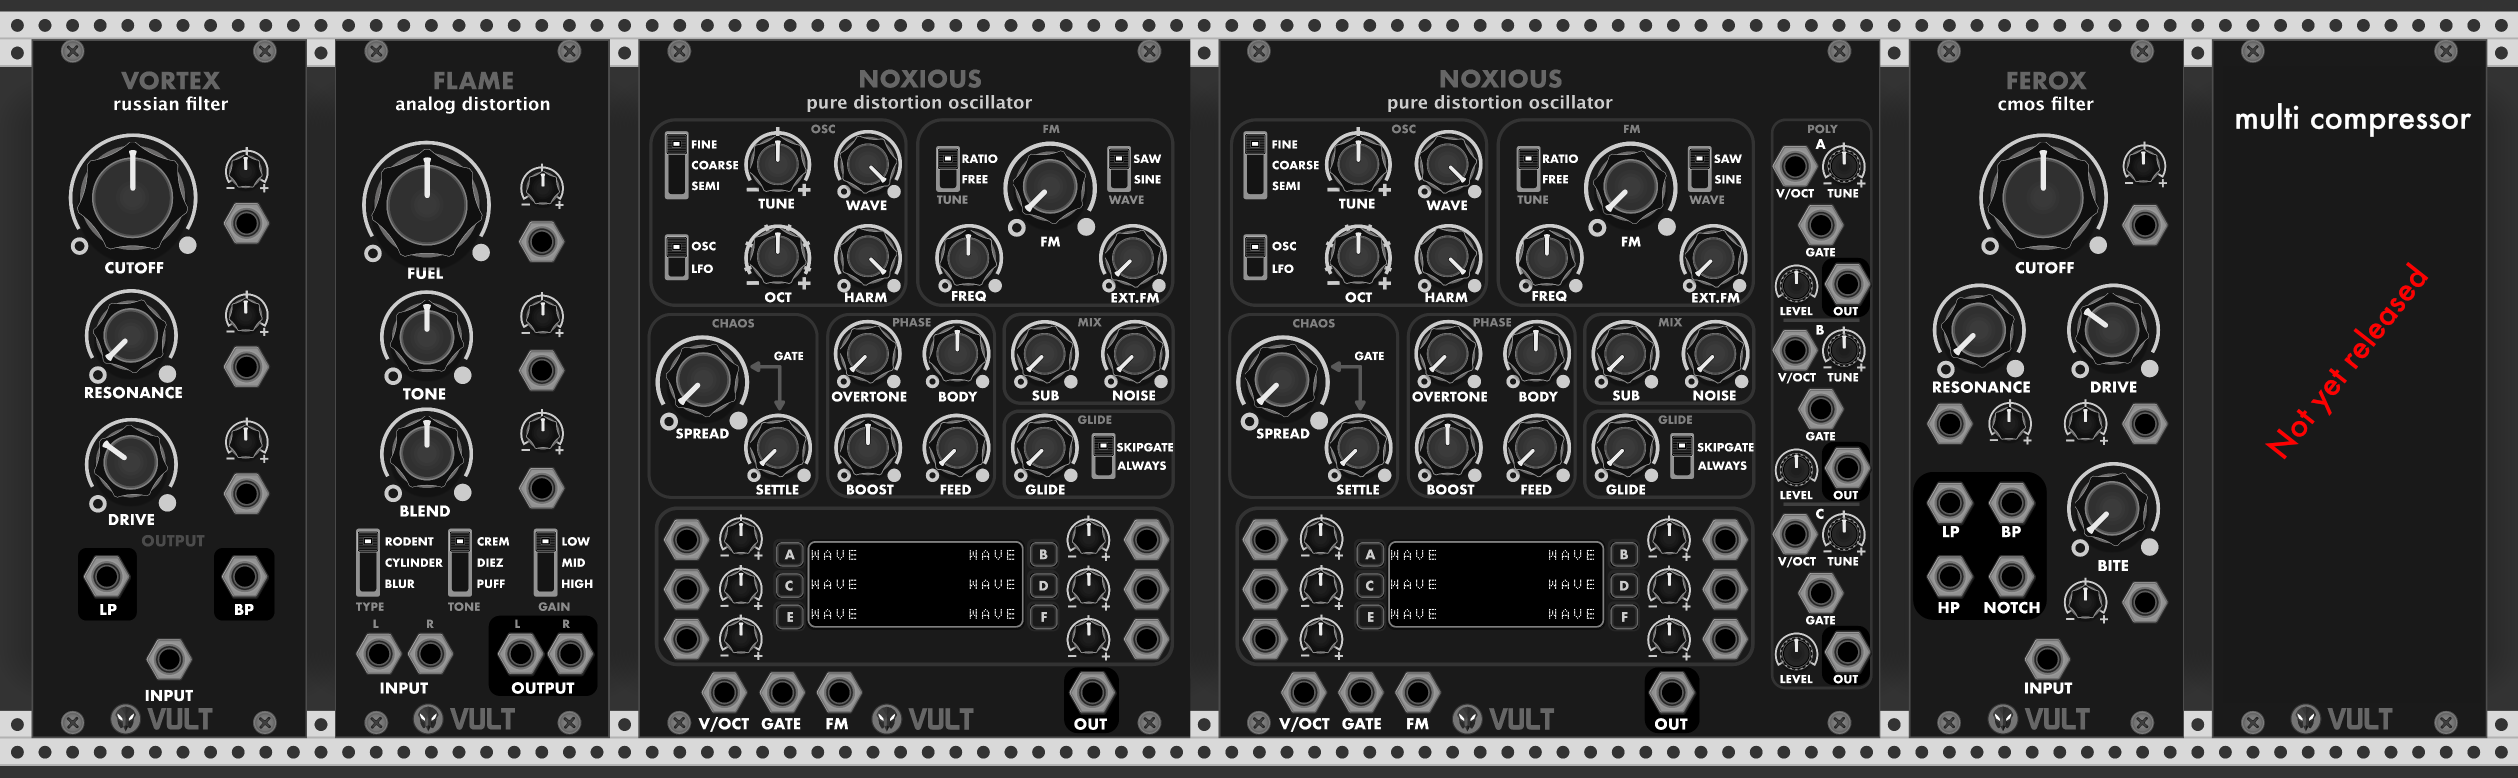
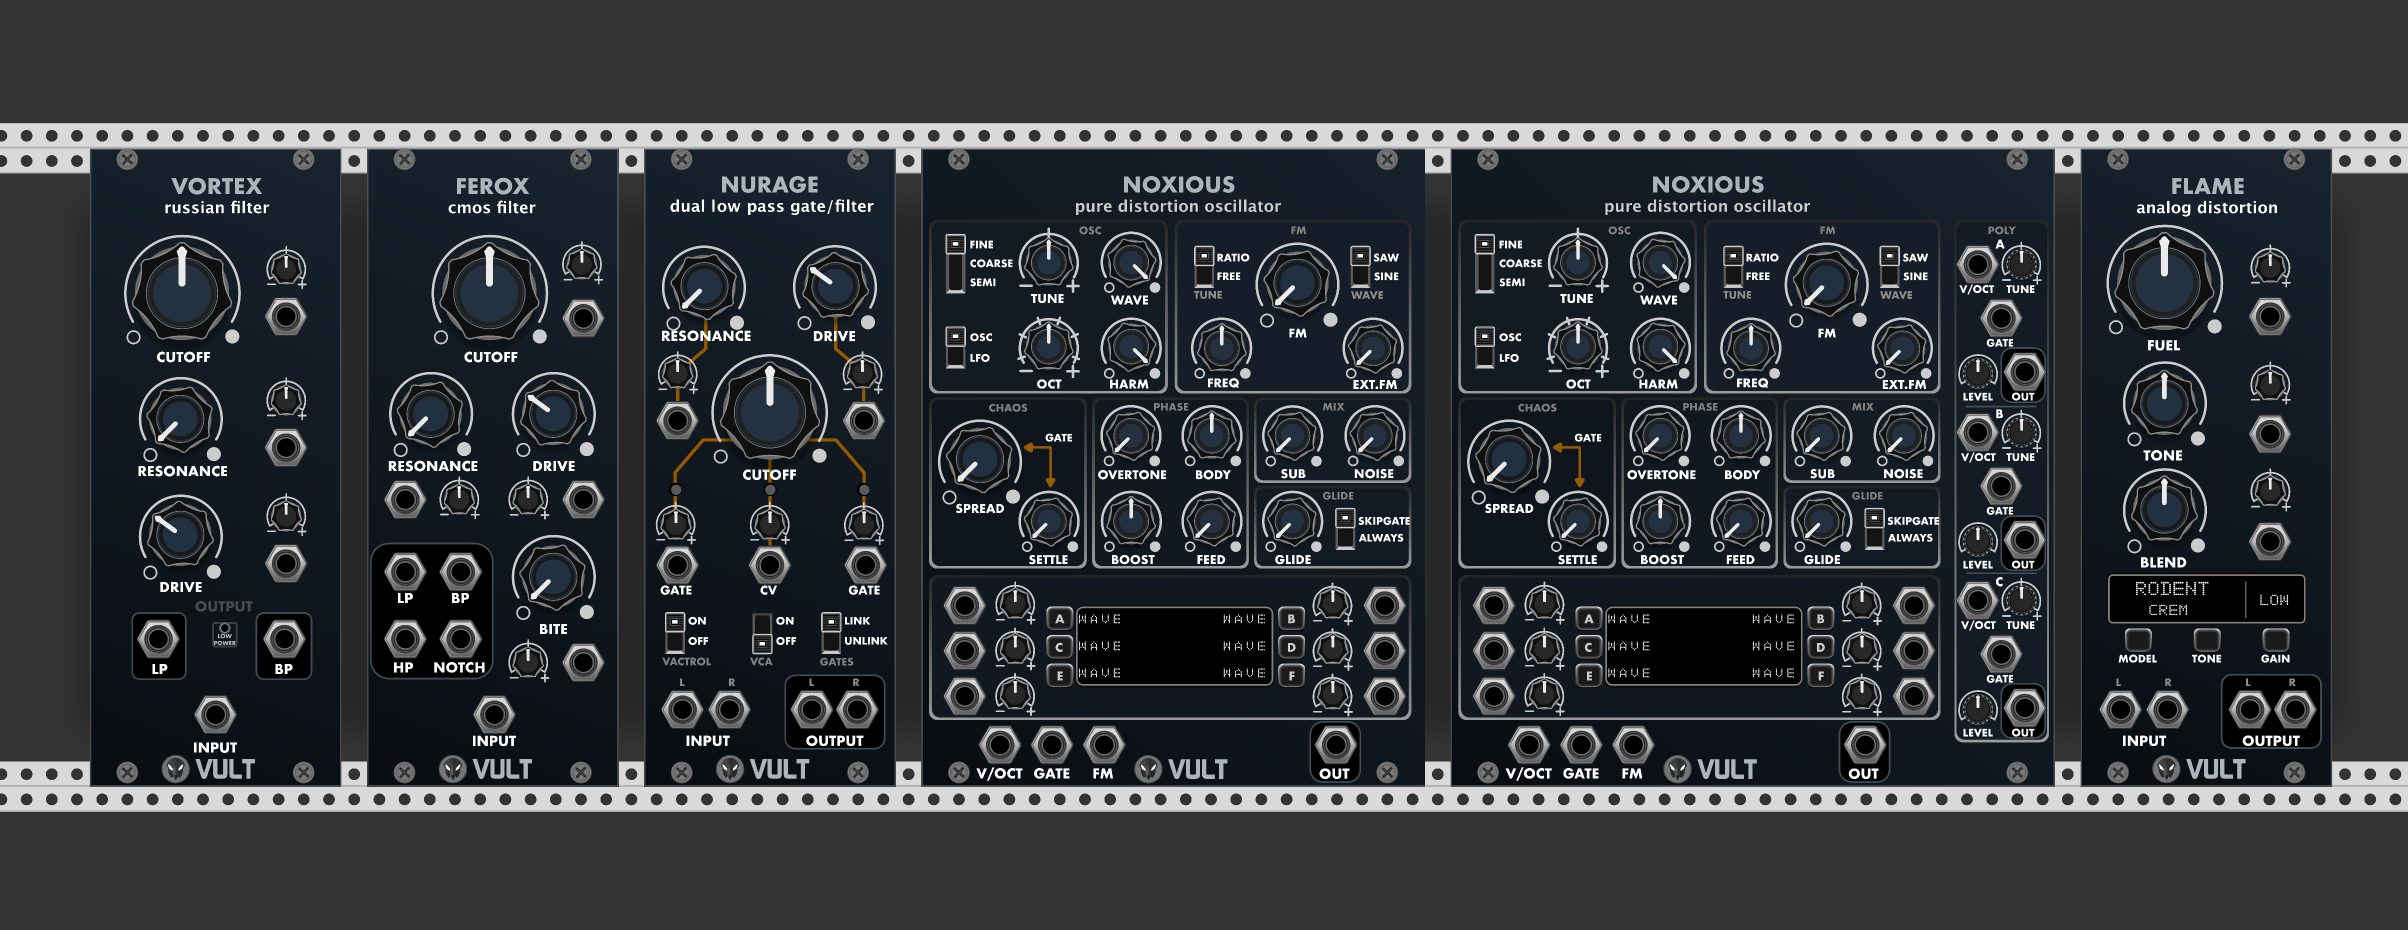
Updates the page including the new modules

diff --git a/themes/vultmodules/layouts/index.html b/themes/vultmodules/layouts/index.html
@@ -7,19 +7,25 @@
             <h1>Vult Modules for VCV Rack</h1>
          </center>
          <center>
-            <img src="images/VultFamily.png" alt="Modules" style="width:100%;margin-top:40px;margin-bottom:40px;"> </center>
+            <img src="images/VultFamily.png" alt="Modules" style="width:100%;margin-top:40px;margin-bottom:40px;">
+         </center>
 
          {{ partial "menu.html" . }}
 
          <p>
-            This is a set of modules that have been carefully designed to fit the Eurorack style of VCV Rack. The modules are coded in
+            This is a set of modules that have been carefully designed to fit the Eurorack style of VCV Rack. The
+            modules are coded in
             the Vult programming language.
          </p>
          <p>
-            The Vult modules are "Virtual Analog". The internals of the modules are modeled using electrical circuits and differential
-            equations, but some behaviors have been simplified when they are easier to do in code. These modules are not
-            emulations of an specific Eurorack module. In the case of the filters the modules try to capture the essence
-            and the sound of the analog versions, and at the same time provide very good performance. Some of the modules,
+            The Vult modules are "Virtual Analog". The internals of the modules are modeled using electrical circuits
+            and differential
+            equations, but some behaviors have been simplified when they are easier to do in code. These modules are
+            not
+            emulations of an specific Eurorack module. In the case of the filters the modules try to capture the
+            essence
+            and the sound of the analog versions, and at the same time provide very good performance. Some of the
+            modules,
             like Trummor 2, were inspired by existing hardware but have evolved into complete original designs.
          </p>
 
@@ -37,7 +43,8 @@
          <p>Following these rules helps me constrain the ideas for modules I have. But I may break them in the future.</p>
 
          <h2> Module Packages </h2>
-         <p>The modules are split into three packages: Premium, Compacts and Free. The Free package is a reduced version of
+         <p>The modules are split into three packages: Premium, Compacts and Free. The Free package is a reduced
+            version of
             the Premium. You can find more information in the following links:</p>
          <center>
             <a href="/premium/" class="btn btn-primary" role="button">VultModules</a>
@@ -49,15 +56,17 @@
          <h2> List of Modules </h2>
          <h4 id="filters">Filters</h4>
 
-         <center>
-            <img src="images/Filters.png" alt="Filters" style="width:100%;margin-top:40px;margin-bottom:40px;"> </center>
-
 
          <ul>
             <li>
-               <a href="https://modlfo.github.io/VultModules/freak/">Freak</a>: Manifold Filter (all Vult filters in one).</li>
+               <a href="https://modlfo.github.io/VultModules/freak/">Freak</a>: Manifold Filter (all Vult filters in
+               one).</li>
             <li>
                <a href="https://modlfo.github.io/VultModules/ferox/">Ferox</a>: CMOS Filter.</li>
+            <li>
+               <a href="https://modlfo.github.io/VultModules/vorg/">Vorg</a>: Low Pass Filter.</li>
+            <li>
+               <a href="https://modlfo.github.io/VultModules/nurage/">Nurage</a>: Dual Low Pass Gate/Filter.</li>
             <li>
                <a href="https://modlfo.github.io/VultModules/lateralus/">Lateralus</a>: Diode Ladder Filter.</li>
             <li>
@@ -67,7 +76,8 @@
             <li>
                <a href="https://modlfo.github.io/VultModules/stabile/">Stabile</a>: State Variable Filter.</li>
             <li>
-               <a href="https://modlfo.github.io/VultModules/unstabile/">Unstabile</a>: Circuit Bent State Variable Filter.</li>
+               <a href="https://modlfo.github.io/VultModules/unstabile/">Unstabile</a>: Circuit Bent State Variable
+               Filter.</li>
             <li>
                <a href="https://modlfo.github.io/VultModules/rescomb/">Rescomb</a>: Resonant Comb Filter.</li>
             <li>
@@ -75,50 +85,50 @@
             <li>
                <a href="https://modlfo.github.io/VultModules/tohe/">Tohe</a>: Tone Control.</li>
          </ul>
+         <h4 id="effects">Synthesizer</h4>
+         <ul>
+            <li>
+               <a href="https://modlfo.github.io/VultModules/incubus/">Incubus</a>: Nightmare Synthesizer.</li>
+
+         </ul>
+
          <h4 id="effects">Effects</h4>
-         <center>
-            <img src="images/Effects.png" alt="Effects" style="width:100%;margin-top:40px;margin-bottom:40px;"> </center>
 
          <ul>
             <li>
-               <a href="https://modlfo.github.io/VultModules/debriatus/">Debriatus</a>: Wave Destruction. Wave Folder, Bit Crusher, Distortion and Saturation.</li>
+               <a href="https://modlfo.github.io/VultModules/debriatus/">Debriatus</a>: Wave Destruction. Wave Folder,
+               Bit Crusher, Distortion and Saturation.</li>
             <li>
-               <a href="https://modlfo.github.io/VultModules/flame/">Flame</a>: Analog distortion based on guitar pedals.</li>
+               <a href="https://modlfo.github.io/VultModules/flame/">Flame</a>: Analog distortion based on guitar
+               pedals.</li>
             <li>
-               <a href="https://modlfo.github.io/VultModules/nopskate/">Nopskate</a>: Flip-Flop octaver based on guitar pedals.</li>
+               <a href="https://modlfo.github.io/VultModules/nopskate/">Nopskate</a>: Flip-Flop octaver based on guitar
+               pedals.</li>
 
          </ul>
-         <h4 id="envelopes-vca">Envelopes &amp; VCA</h4>
 
-         <center>
-            <img src="images/Envelopes.png" alt="Envelopes" style="width:100%;margin-top:40px;margin-bottom:40px;"> </center>
 
-         <ul>
-            <li>
-               <a href="https://modlfo.github.io/VultModules/spank/">Spank</a>: Drum Envelope.</li>
-            <li>
-               <a href="https://modlfo.github.io/VultModules/slap/">Slap</a>: Hitting Envelope.</li>
-            <li>
-               <a href="https://modlfo.github.io/VultModules/julste/">Julste</a>: Low Pass Gate. Buchla model.</li>
-         </ul>
          <h4 id="drums">Drums</h4>
 
-         <center>
-            <img src="images/Drums.png" alt="Drums" style="width:100%;margin-top:40px;margin-bottom:40px;"> </center>
 
          <ul>
+            <li>
+               <a href="https://modlfo.github.io/VultModules/knock/">Knock</a>: Bass Drum.</li>
+
             <li>
                <a href="https://modlfo.github.io/VultModules/trummor/">Trummor</a>: Drums Synthesizer.</li>
             <li>
                <a href="https://modlfo.github.io/VultModules/trummor2/">Trummor 2</a>: Drum (Percussion) Synthesizer.</li>
          </ul>
          <h4 id="oscillators">Oscillators</h4>
-         <center>
-            <img src="images/Oscillators.png" alt="Oscillators" style="width:100%;margin-top:40px;margin-bottom:40px;"> </center>
 
          <ul>
             <li>
                <a href="https://modlfo.github.io/VultModules/vessek/">Vessek</a>: Complex Analog Oscillator.</li>
+            <li>
+               <a href="https://modlfo.github.io/VultModules/basal/">Basal</a>: Smooth Oscillator.</li>
+            <li>
+               <a href="https://modlfo.github.io/VultModules/bleak/">Bleak</a>: Analog Oscillator.</li>
             <li>
                <a href="https://modlfo.github.io/VultModules/caudal/">Caudal</a>: Mechanical Chaos Source.</li>
             <li>
@@ -126,12 +136,14 @@
 
          </ul>
          <h4 id="utilities">Utilities</h4>
-         <center>
-            <img src="images/Utilities.png" alt="Utilities" style="width:100%;margin-top:40px;margin-bottom:40px;"> </center>
 
          <ul>
             <li>
                <a href="flux/">Flux</a>: Quad Voltage Processor</li>
+            <li>
+               <a href="https://modlfo.github.io/VultModules/spank/">Spank</a>: Drum Envelope.</li>
+            <li>
+               <a href="https://modlfo.github.io/VultModules/slap/">Slap</a>: Hitting Envelope.</li>
             <li>
                <a href="knobs/">Knobs</a>: Modulation mixer and macro control</li>
             <li>

diff --git a/themes/vultmodules/layouts/partials/menu.html b/themes/vultmodules/layouts/partials/menu.html
@@ -3,9 +3,11 @@
       <a class="nav-link" href="/">Home</a>
    </li>
    <li class="nav-item dropdown">
-      <a class="nav-link dropdown-toggle" data-toggle="dropdown" href="#" role="button" aria-haspopup="true" aria-expanded="false">Filters</a>
+      <a class="nav-link dropdown-toggle" data-toggle="dropdown" href="#" role="button" aria-haspopup="true"
+         aria-expanded="false">Filters</a>
       <div class="dropdown-menu">
          <a class="dropdown-item" href="/freak">Freak</a>
+         <a class="dropdown-item" href="/nurage">Nurage</a>
          <a class="dropdown-item" href="/ferox">Ferox</a>
          <a class="dropdown-item" href="/vortex">Vortex</a>
          <a class="dropdown-item" href="/tangents">Tangents</a>
@@ -18,7 +20,8 @@
       </div>
    </li>
    <li class="nav-item dropdown">
-      <a class="nav-link dropdown-toggle" data-toggle="dropdown" href="#" role="button" aria-haspopup="true" aria-expanded="false">Effects</a>
+      <a class="nav-link dropdown-toggle" data-toggle="dropdown" href="#" role="button" aria-haspopup="true"
+         aria-expanded="false">Effects</a>
       <div class="dropdown-menu">
          <a class="dropdown-item" href="/debriatus">Debriatus</a>
          <a class="dropdown-item" href="/flame">Flame</a>
@@ -26,32 +29,39 @@
       </div>
    </li>
    <li class="nav-item dropdown">
-      <a class="nav-link dropdown-toggle" data-toggle="dropdown" href="#" role="button" aria-haspopup="true" aria-expanded="false">Envelopes</a>
+      <a class="nav-link dropdown-toggle" data-toggle="dropdown" href="#" role="button" aria-haspopup="true"
+         aria-expanded="false">Synthesizers</a>
       <div class="dropdown-menu">
-         <a class="dropdown-item" href="/spank">Spank</a>
-         <a class="dropdown-item" href="/slap">Slap</a>
-         <a class="dropdown-item" href="/julste">Julste</a>
+         <a class="dropdown-item" href="/incubus">Incubus</a>
       </div>
    </li>
    <li class="nav-item dropdown">
-      <a class="nav-link dropdown-toggle" data-toggle="dropdown" href="#" role="button" aria-haspopup="true" aria-expanded="false">Drums</a>
+      <a class="nav-link dropdown-toggle" data-toggle="dropdown" href="#" role="button" aria-haspopup="true"
+         aria-expanded="false">Drums</a>
       <div class="dropdown-menu">
+         <a class="dropdown-item" href="/knock">Knock</a>
          <a class="dropdown-item" href="/trummor">Trummor</a>
          <a class="dropdown-item" href="/trummor2">Trummor 2</a>
       </div>
    </li>
    <li class="nav-item dropdown">
-      <a class="nav-link dropdown-toggle" data-toggle="dropdown" href="#" role="button" aria-haspopup="true" aria-expanded="false">Oscillators</a>
+      <a class="nav-link dropdown-toggle" data-toggle="dropdown" href="#" role="button" aria-haspopup="true"
+         aria-expanded="false">Oscillators</a>
       <div class="dropdown-menu">
          <a class="dropdown-item" href="/vessek">Vessek</a>
          <a class="dropdown-item" href="/caudal">Caudal</a>
+         <a class="dropdown-item" href="/basal">Basal</a>
+         <a class="dropdown-item" href="/bleak">Bleak</a>
          <a class="dropdown-item" href="/noxious">Noxious</a>
       </div>
    </li>
    <li class="nav-item dropdown">
-      <a class="nav-link dropdown-toggle" data-toggle="dropdown" href="#" role="button" aria-haspopup="true" aria-expanded="false">Utilities</a>
+      <a class="nav-link dropdown-toggle" data-toggle="dropdown" href="#" role="button" aria-haspopup="true"
+         aria-expanded="false">Utilities</a>
       <div class="dropdown-menu">
          <a class="dropdown-item" href="/flux">Flux</a>
+         <a class="dropdown-item" href="/spank">Spank</a>
+         <a class="dropdown-item" href="/slap">Slap</a>
          <a class="dropdown-item" href="/knobs">Knobs</a>
          <a class="dropdown-item" href="/send">Send</a>
          <a class="dropdown-item" href="/bypass">Bypass</a>

diff --git a/content/Compacts.md b/content/Compacts.md
@@ -4,11 +4,11 @@ date = "2018-08-12T09:04:33+02:00"
 layout = "download"
 +++
 
-Vult Compacts is a new series that will contain free and paid modules. The idea behind the Compacts is to create alternate versions of the existing modules and expand/redesign the functionality. For example: the new Freak filter contains all Vult filters in a single package.
+Vult Compacts is a new series modules. VultCompacts contains the following modules:
 
-These are some of the modules that are planed for the paid version of Vult Compacts:
-
-- Trummor Kit: new percussion synthesizers derived from Trummor 2.
-- Full Synth Voice: a Vult synthesizer in a single package.
+- Incubus: Nightmare synthesizer (full voice synthesizer)
+- Freak: Manifold filter (all filters in one)
+- Knock: Bass drum (a very effective kick)
+- Vorg: Low pass filter (filter based on the MS 20 circuit, but with it's own character)
 
 <center><img src="../images/VultCompacts.png" style="max-width: 100%;"> </center>

diff --git a/content/Knock.md b/content/Knock.md
@@ -1,0 +1,13 @@
++++
+title = "Knock"
+date = "2017-10-28T22:37:03+03:00"
+layout = "module"
+image = "../images/Knock.png"
++++
+
+<center>Included in: <a href="/compacts/" class="btn btn-primary" role="button">VultCompacts</a> </center>
+
+
+Knock is the ultimate bass drum. Unlike Trummor 2, Knock is specialized in bass percussions. It has a wide range of sounds and it produces usable result in every setting.
+
+Full documentation coming soon.

diff --git a/content/Nurage.md b/content/Nurage.md
@@ -1,0 +1,14 @@
++++
+title = "Nurage"
+date = "2018-05-21T08:57:13+03:00"
+image = "../images/Nurage.png"
+layout = "module"
++++
+
+<center>Included in: <a href="/premium/" class="btn btn-primary" role="button">VultModules</a> </center>
+
+
+Nurage is my own model of the Buchla/Borg low pass gate and filter featuring the resonance mod. Nurage can be used as a low pass gate and also a regular filter.
+
+Full documentation coming soon.
+

diff --git a/content/Incubus.md b/content/Incubus.md
@@ -1,0 +1,15 @@
++++
+title = "Incubus"
+date = "2017-10-28T22:37:03+03:00"
+layout = "module"
+image = "../images/Incubus.png"
++++
+
+<center>Included in: <a href="/compacts/" class="btn btn-primary" role="button">VultCompacts</a> </center>
+
+
+
+Incubus is full synthesizer in a single module. It's assembled out of pieces of other modules like Vessek, Noxious, Caudal.
+
+
+Full documentation coming soon.

diff --git a/content/Basal.md b/content/Basal.md
@@ -1,0 +1,10 @@
++++
+title = "Basal"
+date = "2017-10-28T22:37:03+03:00"
+layout = "module"
+image ="../images/Basal.png"
++++
+
+<center>Included in: <a href="/premium/" class="btn btn-primary" role="button">VultModules</a> <a href="/free/" class="btn btn-primary" role="button">VultModules Free</a> </center>
+
+Full documentation coming soon.

diff --git a/content/Bleak.md b/content/Bleak.md
@@ -1,0 +1,10 @@
++++
+title = "Bleak"
+date = "2017-10-28T22:37:03+03:00"
+layout = "module"
+image ="../images/Bleak.png"
++++
+
+<center>Included in: <a href="/premium/" class="btn btn-primary" role="button">VultModules</a> <a href="/free/" class="btn btn-primary" role="button">VultModules Free</a> </center>
+
+Full documentation coming soon.
